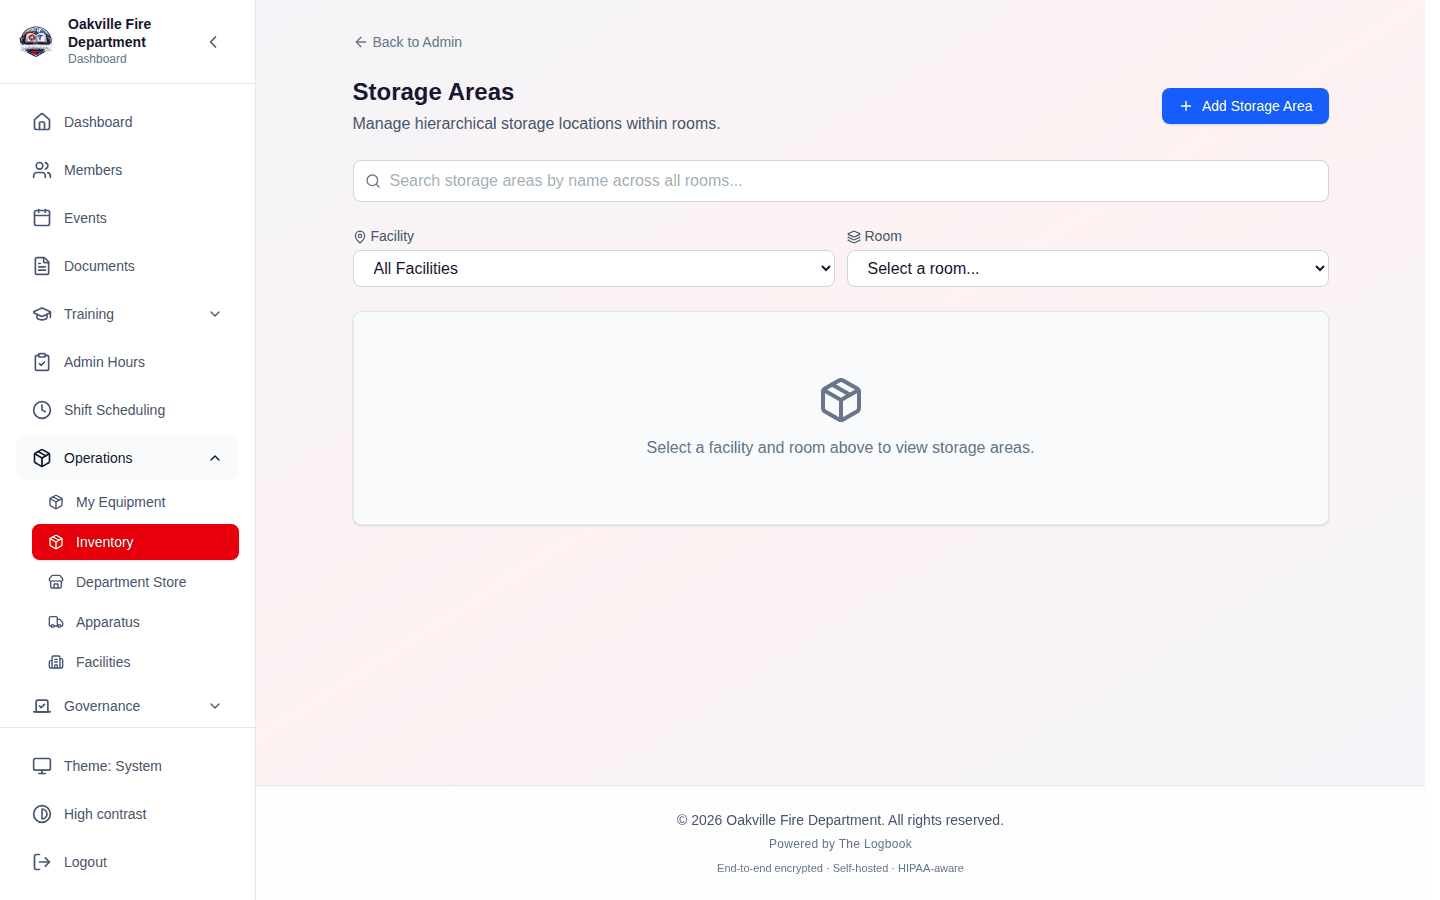
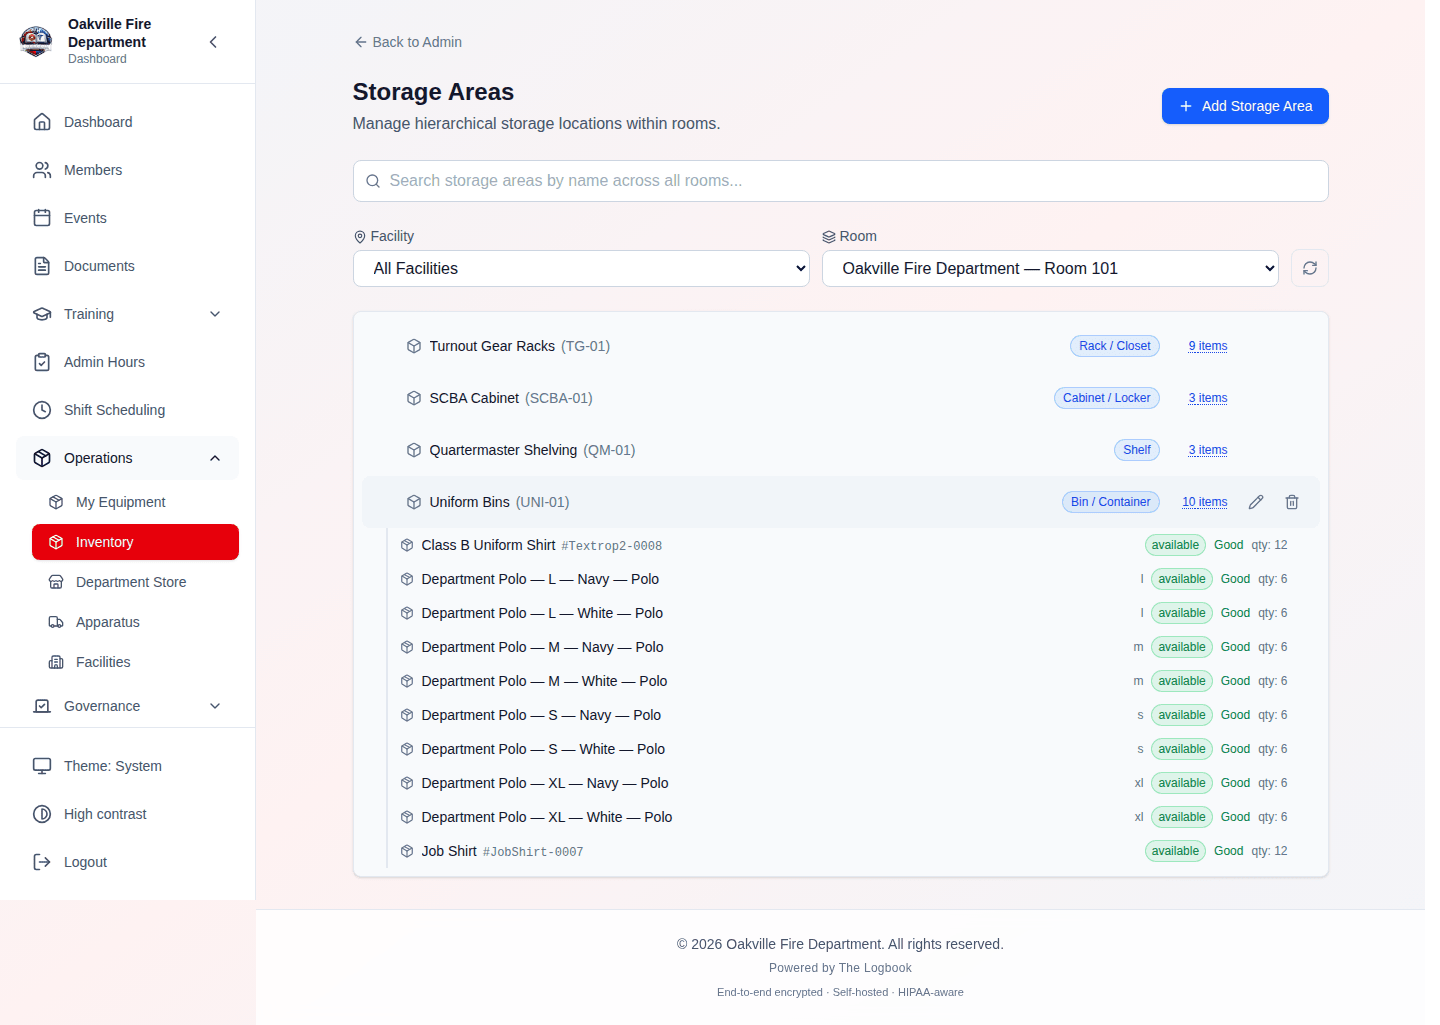
Stop naming variant items "Structural Coat — l"
`create_size_variants` humanises the style when it builds an item's name —
`quarter_zip` becomes "Quarter Zip" — but passes the size straight through.
Sizes arrive as the codes the picker submits, so every generated variant was
named with a lowercase letter: "Structural Coat — l", on the shelf list, the
pick list and the printed label. Now rendered the same way the picker shows
it, with the multi-letter and word sizes (XXL, 3XL, One Size) mapped rather
than upper-cased. Regression test covers letter, numeric and word sizes, and
a value that has already been through the function.

The Storage Areas page could not show anything at all. Its area list is keyed
on a selected room, and a location counts as a room only when it carries a
room number or a facility-room link — the seeded stations had neither, so the
room dropdown was empty and disabled, and the page sat on "Select a facility
and room above" forever. That is what the published 05-36 screenshot was: an
empty prompt. Stations now get room numbers, items are filed into areas by
category instead of leaving every count at zero, and both storage-area shots
open a populated area.

Filing items needed the item list re-read rather than threaded in from
seed_inventory: a create response carries no category_id, so routing off that
list put all 25 items under the fallback shelf.

Backend suite 3719 passed. 206 of 480 placeholders filled, 274 remaining.

diff --git a/scripts/screenshots/seed_demo_data.py b/scripts/screenshots/seed_demo_data.py
@@ -494,6 +494,19 @@ class Seeder:
             if facility.get("id"):
                 payload["facility_id"] = facility["id"]
             created.append(self.api.post("/locations", payload))
+
+        # The Storage Areas page treats a location as a room only when it has a
+        # room number or a facility-room link, and its area list is keyed on
+        # the selected room. Stations seeded without one left the page stuck on
+        # "Select a facility and room above" with an empty, disabled dropdown —
+        # no storage area was reachable at all.
+        for index, location in enumerate(created):
+            location_id = pick(location, "id")
+            if not location_id or pick(location, "room_number", "roomNumber"):
+                continue
+            room_number = f"{101 + index}"
+            self.api.patch(f"/locations/{location_id}", {"room_number": room_number})
+            location["room_number"] = room_number
         return created
 
     def seed_apparatus(self, stations: list[dict]) -> list[dict]:
@@ -1430,6 +1443,41 @@ class Seeder:
                 blueprint[index % len(blueprint)],
             )
 
+    def _file_items_into_areas(
+        self,
+        areas: list[dict],
+        category_ids: dict[str, Any],
+    ) -> None:
+        """Put each item on a shelf.
+
+        Storage areas ship empty, so the page's item counts all read 0 and the
+        inline items panel — the thing the guide describes — cannot be opened
+        at all. Items are filed by category, falling back to the quartermaster
+        shelving.
+
+        Items are re-read here rather than threaded in from `seed_inventory`:
+        a create response carries no `category_id`, so routing off that list
+        put every item under the fallback area.
+        """
+        by_name = {a.get("name"): pick(a, "id") for a in areas}
+        default_area = by_name.get("Quartermaster Shelving")
+        routing = {
+            category_ids.get("Structural PPE"): by_name.get("Turnout Gear Racks"),
+            category_ids.get("SCBA & Air Supply"): by_name.get("SCBA Cabinet"),
+            category_ids.get("Uniforms"): by_name.get("Uniform Bins"),
+        }
+        for item in items(self.api.get("/inventory/items?limit=500"), "items"):
+            item_id = pick(item, "id")
+            if not item_id:
+                continue
+            area_id = routing.get(pick(item, "category_id", "categoryId"))
+            area_id = area_id or default_area
+            if not area_id:
+                continue
+            if pick(item, "storage_area_id", "storageAreaId") == area_id:
+                continue
+            self.api.patch(f"/inventory/items/{item_id}", {"storage_area_id": area_id})
+
     def seed_inventory_operations(
         self,
         categories: list[dict],
@@ -1465,6 +1513,8 @@ class Seeder:
             if location_id:
                 payload["location_id"] = location_id
             areas.append(self.api.post("/inventory/storage-areas", payload))
+
+        self._file_items_into_areas(areas, category_ids)
 
         kits = items(self.api.get("/inventory/kits"), "kits")
         kit_names = {k.get("name") for k in kits}

diff --git a/backend/app/services/inventory_service.py b/backend/app/services/inventory_service.py
@@ -99,6 +99,39 @@ def _format_sequential_barcode(prefix: str, number: int) -> str:
     return f"{prefix}{number:0{BARCODE_MIN_DIGITS}d}"
 
 
+# Sizes whose display form is not just the code upper-cased. Mirrors the
+# frontend's STANDARD_SIZES labels so an item named here matches the label the
+# member picked from.
+_SIZE_LABELS = {
+    "xxl": "XXL",
+    "xxxl": "3XL",
+    "xxxxl": "4XL",
+    "one_size": "One Size",
+    "custom": "Custom",
+}
+
+
+def _size_label(size: str) -> str:
+    """Display form of a stored size code — ``l`` reads as ``L``.
+
+    Numeric sizes (boot 10.5, waist 34) are returned unchanged; upper-casing
+    them would be a no-op but the explicit path keeps that obvious.
+    """
+    code = (size or "").strip()
+    if not code:
+        return ""
+    # Accept a value that has already been through here ("One Size") as well as
+    # the stored code ("one_size").
+    key = code.lower().replace(" ", "_")
+    if key in _SIZE_LABELS:
+        return _SIZE_LABELS[key]
+    if any(character.isdigit() for character in code):
+        return code
+    if "_" in code or " " in code:
+        return code.replace("_", " ").title()
+    return code.upper()
+
+
 # Supported extra-line field keys that can be requested on labels.
 _EXTRA_LINE_FIELDS = {"location", "category", "condition", "custom"}
 
@@ -3447,7 +3480,11 @@ class InventoryService:
         items_created: List[InventoryItem] = []
 
         for size, color, style in combos:
-            name_parts = [base_name, size]
+            # Sizes arrive as the stored codes ("l", "xxl", "one_size") because
+            # that is what the size picker submits. Styles were already being
+            # humanised here; sizes were not, so a coat came out named
+            # "Structural Coat — l" everywhere the item name is shown.
+            name_parts = [base_name, _size_label(size)]
             if color:
                 name_parts.append(color)
             if style:

diff --git a/backend/tests/test_inventory_size_label.py b/backend/tests/test_inventory_size_label.py
@@ -1,0 +1,40 @@
+"""
+Variant items are named from the size *code* the picker submits ("l", "xxl"),
+so the name builder has to render the display form or the department ends up
+with a "Structural Coat — l" on every shelf, label and pick list. Pure
+function; no DB.
+"""
+
+from app.services.inventory_service import _size_label
+
+
+class TestSizeLabel:
+    def test_letter_sizes_upper_case(self):
+        assert _size_label("s") == "S"
+        assert _size_label("l") == "L"
+        assert _size_label("xl") == "XL"
+
+    def test_multi_letter_sizes_use_their_short_form(self):
+        # XXXL reads as 3XL on the picker, so the item name should match.
+        assert _size_label("xxl") == "XXL"
+        assert _size_label("xxxl") == "3XL"
+        assert _size_label("xxxxl") == "4XL"
+
+    def test_word_sizes_are_title_cased(self):
+        assert _size_label("one_size") == "One Size"
+        assert _size_label("custom") == "Custom"
+
+    def test_numeric_sizes_pass_through(self):
+        # Boot and waist sizes; upper-casing is a no-op but half sizes must
+        # keep their decimal point.
+        assert _size_label("10") == "10"
+        assert _size_label("10.5") == "10.5"
+        assert _size_label("34") == "34"
+
+    def test_blank_size_is_blank(self):
+        assert _size_label("") == ""
+        assert _size_label(None) == ""
+
+    def test_already_display_form_is_left_alone(self):
+        assert _size_label("L") == "L"
+        assert _size_label("One Size") == "One Size"

diff --git a/docs/training/05-inventory.md b/docs/training/05-inventory.md
@@ -1382,8 +1382,7 @@ Storage areas now display the inventory items assigned to each area:
    - Condition indicator
 4. Click on any item to navigate directly to its detail page
 
-> **Screenshot needed:**
-> _[Screenshot of the Storage Areas page with one area expanded showing 3-4 inventory items in an inline panel, each with name, serial number, and status badge. Show the expand/collapse arrow on the area header]_
+![Storage area expanded to show the items stored in it](./images/05-48-storage-area-items.png)
 
 ### Always-Visible Barcode & Asset Tag
 
@@ -1450,7 +1449,7 @@ The Items List page now includes three new filter dropdowns for variant-based fi
 
 These filters work alongside existing category, status, condition, and location filters. Selecting a size filter, for example, shows only items with that size variant attribute — useful for quickly finding all "XL" items across all categories.
 
-> **[SCREENSHOT NEEDED]:** _Screenshot of the Items List filter bar showing the three new dropdown filters (Size, Color, Style) alongside the existing Category and Status filters. Show the Size dropdown open with options like "S", "M", "L", "XL"._
+![Items list filter bar with the size, colour and style dropdowns](./images/05-47-items-filter-bar.png)
 
 ### Barcode Label Improvements
 

diff --git a/docs/training/SCREENSHOT_STATUS.md b/docs/training/SCREENSHOT_STATUS.md
@@ -4,7 +4,7 @@ Which training-guide screenshot placeholders have been captured. Generated
 by `scripts/screenshots/status_report.py`; see that directory's README for
 how to capture more.
 
-**204 of 480 placeholders filled** (276 remaining).
+**206 of 480 placeholders filled** (274 remaining).
 
 | Guide | Captured | Remaining |
 |-------|---------:|----------:|
@@ -13,7 +13,7 @@ how to capture more.
 | [02-training.md](./02-training.md) | 27 | 51 |
 | [03-scheduling.md](./03-scheduling.md) | 28 | 40 |
 | [04-events-meetings.md](./04-events-meetings.md) | 12 | 26 |
-| [05-inventory.md](./05-inventory.md) | 19 | 34 |
+| [05-inventory.md](./05-inventory.md) | 21 | 32 |
 | [06-apparatus-facilities.md](./06-apparatus-facilities.md) | 13 | 7 |
 | [07-documents-forms.md](./07-documents-forms.md) | 13 | 0 |
 | [08-admin-reports.md](./08-admin-reports.md) | 14 | 28 |
@@ -27,5 +27,5 @@ how to capture more.
 | [16-integrations.md](./16-integrations.md) | 4 | 8 |
 | [17-privacy-data-rights.md](./17-privacy-data-rights.md) | 2 | 0 |
 | [18-storefront.md](./18-storefront.md) | 4 | 1 |
-| **Total** | **204** | **276** |
+| **Total** | **206** | **274** |
 
